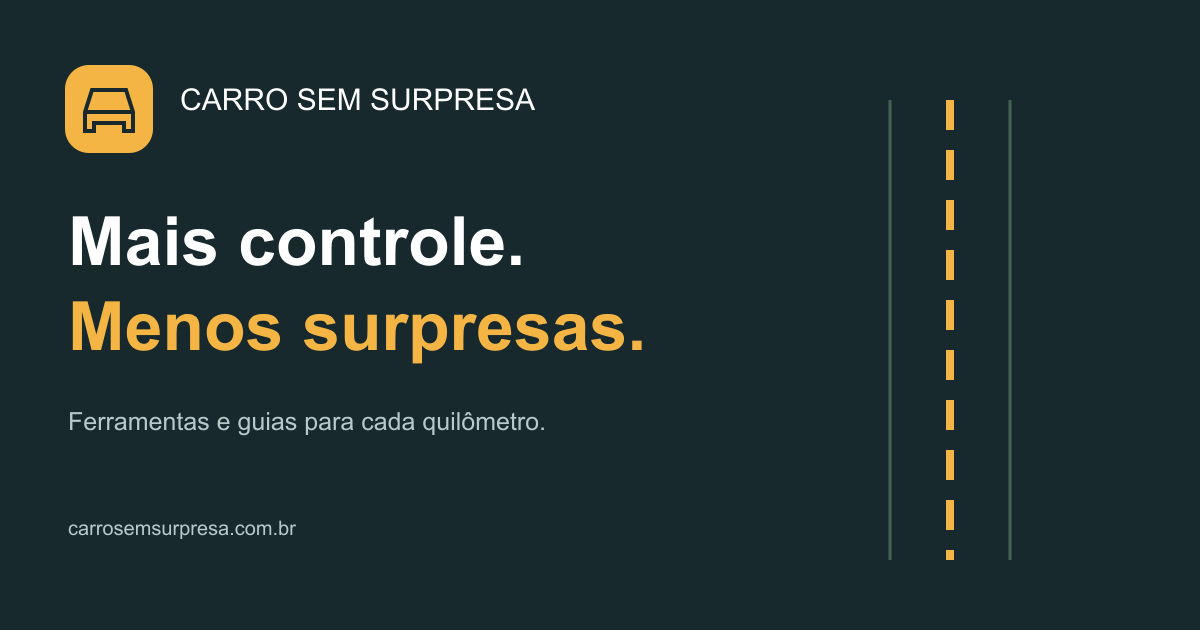
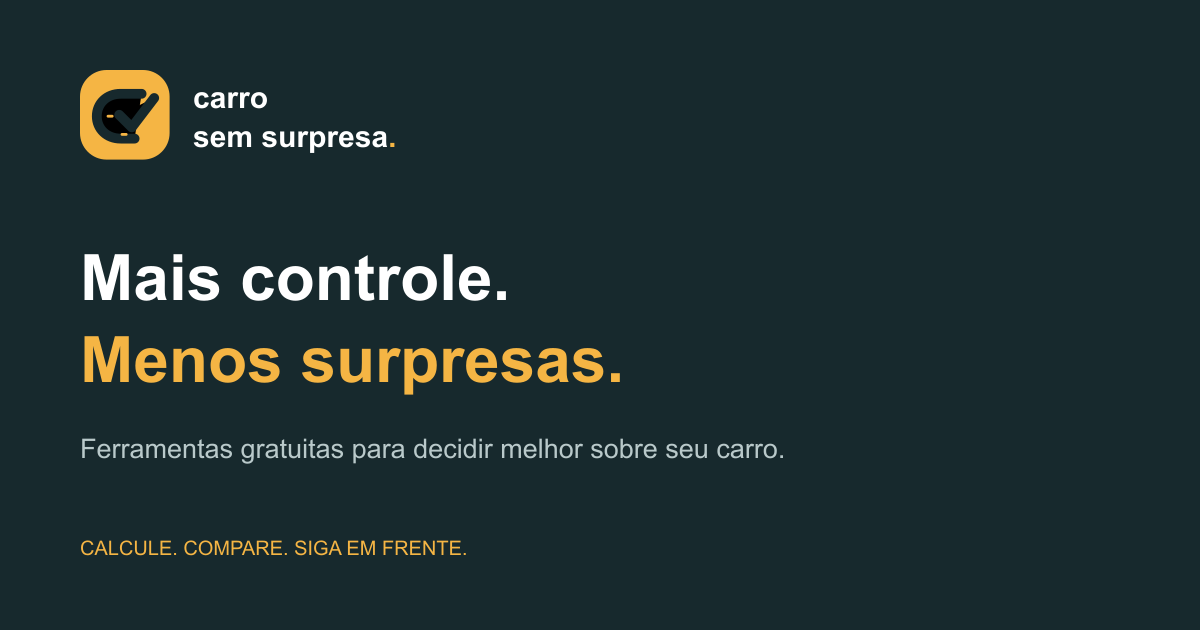
feat: moderniza marca e melhora descoberta de ferramentas

diff --git a/app/globals.css b/app/globals.css
@@ -3,14 +3,8 @@
 :root {
   --background: #fbfaf7;
   --foreground: #17292d;
-  /* Paleta da marca: grafite + laranja (Etapa 7).
-     --color-graphite coincide com o slate-900 padrão do Tailwind, mas
-     o orange-500 padrão do Tailwind v4 NÃO é mais #f97316 (mudou para
-     um tom via OKLCH ao migrar de v3 pra v4) — por isso a cor exata da
-     marca é fixada aqui como token próprio, não reaproveitando a
-     paleta padrão. --color-brand-orange-dark é usado onde o laranja
-     puro não tem contraste suficiente (WCAG AA) para texto/ícone sobre
-     fundo branco ou como fundo sob texto branco. */
+  /* Grafite, âmbar e papel. O token orange é mantido por compatibilidade;
+     sua variante escura oferece contraste para texto sobre fundo claro. */
   --color-graphite: #17292d;
   --color-brand-orange: #f5b544;
   --color-brand-orange-dark: #97520b;
@@ -89,13 +83,38 @@ input {
   outline: none;
 }
 .brand-name {
-  font-size: 20px;
-  line-height: 1.06;
+  font-size: 21px;
+  font-weight: 800;
+  line-height: 1.12;
   letter-spacing: -0.6px;
 }
 .brand-name > span {
   display: block;
 }
+.brand-lockup { display: inline-flex; align-items: center; gap: 12px; }
+.brand-lockup > img { flex-shrink: 0; }
+.brand-period { color: #f5b544; }
+.tool-search-section { display: grid; grid-template-columns: 1fr 1fr; gap: 32px; align-items: center; padding-top: 48px; }
+.tool-search-section h2 { font-size: 23px; font-weight: 700; letter-spacing: -0.04em; margin-top: 8px; }
+.home-search { display: flex; align-items: center; gap: 12px; padding: 8px 8px 8px 18px; background: white; border: 1px solid #c8d1cb; border-radius: 12px; }
+.home-search:focus-within { outline: 3px solid #b36812; outline-offset: 3px; }
+.home-search input { width: 100%; min-width: 0; min-height: 44px; font-size: 14px; outline: none; }
+.home-search button { display: grid; place-items: center; flex-shrink: 0; width: 44px; height: 44px; border-radius: 8px; background: #17292d; color: #f5b544; cursor: pointer; }
+.home-search button:hover { background: #2c494e; }
+.estimate-result { background: #f8efdd; border: 1px solid #ebd6ac; }
+.cost-breakdown { margin-top: 18px; }
+.cost-bar { display: flex; height: 7px; gap: 3px; border-radius: 10px; overflow: hidden; background: #edf0ed; }
+.cost-bar span { flex-basis: 0; }
+.cost-color-0 { background: #17292d; }
+.cost-color-1 { background: #b07b28; }
+.cost-color-2 { background: #638478; }
+.cost-color-3 { background: #f5b544; }
+.cost-color-4 { background: #7d91a4; }
+.cost-breakdown dl { display: grid; gap: 6px; margin-top: 12px; font-size: 12px; }
+.cost-breakdown dl > div { display: flex; justify-content: space-between; gap: 12px; }
+.cost-breakdown dt { display: flex; align-items: center; gap: 7px; color: #536160; }
+.cost-breakdown dt i { width: 7px; height: 7px; border-radius: 2px; }
+.cost-breakdown dd { font-variant-numeric: tabular-nums; font-weight: 600; }
 .motor-container {
   width: 100%;
   max-width: 1200px;
@@ -103,7 +122,7 @@ input {
   margin-inline: auto;
 }
 .motor-hero {
-  background: #17292d;
+  background: radial-gradient(ellipse at 90% 15%, #28484b 0, transparent 55%), #17292d;
   color: white;
   overflow: hidden;
   position: relative;
@@ -113,14 +132,14 @@ input {
   grid-template-columns: 1.2fr 1fr;
   gap: 76px;
   align-items: center;
-  padding-block: 65px 72px;
+  padding-block: 54px 64px;
 }
 .section-kicker {
   display: inline-flex;
   align-items: center;
   gap: 9px;
   color: #97520b;
-  font-size: 10px;
+  font-size: 11px;
   letter-spacing: 0.13em;
   font-weight: 700;
 }
@@ -189,7 +208,7 @@ input {
   display: flex;
   flex-wrap: wrap;
   gap: 16px;
-  font-size: 10px;
+  font-size: 12px;
   color: #b9c9ca;
   margin-top: 30px;
 }
@@ -305,7 +324,9 @@ input {
   background: white;
   border-radius: 14px;
   padding: 26px;
+  transition: border-color 0.2s, box-shadow 0.2s;
 }
+.journey-card:hover, .journey-card:focus-within { border-color: #b07b28; box-shadow: 0 10px 30px #17292d0a; }
 .journey-top {
   display: flex;
   justify-content: space-between;
@@ -313,7 +334,7 @@ input {
   color: #97520b;
 }
 .journey-top span {
-  font-size: 8px;
+  font-size: 10px;
   letter-spacing: 0.09em;
   font-weight: 700;
 }
@@ -329,7 +350,7 @@ input {
   align-items: center;
 }
 .journey-card > p {
-  font-size: 12px;
+  font-size: 14px;
   line-height: 1.8;
   color: #63706f;
   margin-top: 12px;
@@ -342,7 +363,9 @@ input {
   gap: 12px;
 }
 .journey-links a {
-  font-size: 11px;
+  font-size: 13px;
+  min-height: 36px;
+  align-items: center;
   display: flex;
   justify-content: space-between;
   gap: 12px;
@@ -441,7 +464,7 @@ input {
   line-height: 1.5;
 }
 .reading-body p {
-  font-size: 12px;
+  font-size: 14px;
   line-height: 1.7;
   color: #63706f;
   margin-block: 12px 24px;
@@ -533,6 +556,11 @@ input {
   }
 }
 @media (max-width: 700px) {
+  .tool-search-section { grid-template-columns: 1fr; gap: 18px; padding-top: 32px; }
+  .brand-name { font-size: 18px; }
+  .brand-lockup { gap: 9px; }
+  .brand-lockup > img { width: 42px; height: 42px; }
+  .quick-lane a { min-height: 44px; }
   .hero-grid {
     grid-template-columns: 1fr;
     padding-block: 38px 42px;

diff --git a/app/page.tsx b/app/page.tsx
@@ -9,6 +9,7 @@ import {
   Wrench,
   BookOpen,
   Check,
+  Search,
 } from "lucide-react";
 import { HeroCalculator } from "@/components/home/HeroCalculator";
 import { TOOLS } from "@/lib/tools";
@@ -69,17 +70,17 @@ export default function Home() {
               <span className="signal-dot" /> MAIS CONTROLE. MENOS SURPRESAS.
             </span>
             <h1>
-              A liberdade de dirigir.
+              Seu próximo carro.
               <br />
               <em>
-                A tranquilidade
+                Sua próxima viagem.
                 <br />
-                de saber o custo.
+                Nenhuma surpresa.
               </em>
             </h1>
             <p>
-              Da primeira pesquisa à próxima revisão: ferramentas e guias para
-              tomar boas decisões com o seu carro.
+              Entenda quanto custa comprar, manter e usar um carro.
+              Faça as contas hoje. Dirija com mais tranquilidade amanhã.
             </p>
             <div className="hero-buttons">
               <Link
@@ -137,6 +138,18 @@ export default function Home() {
           </Link>
         </div>
       </div>
+      <section className="motor-container tool-search-section" aria-label="Buscar ferramentas">
+        <div>
+          <span className="section-kicker">VAMOS RESOLVER?</span>
+          <h2>O que você precisa descobrir?</h2>
+        </div>
+        <form action="/ferramentas" className="home-search" role="search">
+          <Search size={20} aria-hidden="true" />
+          <label htmlFor="home-tool-search" className="sr-only">Buscar ferramenta</label>
+          <input id="home-tool-search" name="q" type="search" placeholder="Ex.: combustível, FIPE, viagem…" maxLength={120} />
+          <button type="submit" aria-label="Buscar ferramentas"><ArrowUpRight size={21} /></button>
+        </form>
+      </section>
       <section className="motor-container home-section">
         <div className="section-heading">
           <div>

diff --git a/components/home/HeroCalculator.tsx b/components/home/HeroCalculator.tsx
@@ -73,7 +73,7 @@ export function HeroCalculator() {
         />
       </div>
 
-      <div className="mt-5 rounded-xl bg-neutral-50 p-4">
+      <div className="estimate-result mt-5 rounded-xl p-4" aria-live="polite" aria-atomic="true">
         <p className="text-xs text-neutral-500">Custo mensal estimado</p>
         <p className="mt-0.5 text-3xl font-bold tracking-tight text-neutral-900">
           {formatBRL(result.totalMonthly)}
@@ -83,6 +83,21 @@ export function HeroCalculator() {
         </p>
       </div>
 
+      <div className="cost-breakdown" aria-label="Composição do custo mensal">
+        <div className="cost-bar" aria-hidden="true">
+          {result.breakdown.map((item, index) => (
+            <span key={item.label} className={`cost-color-${index}`} style={{ flexGrow: result.totalMonthly > 0 ? item.monthlyValue / result.totalMonthly : 0 }} />
+          ))}
+        </div>
+        <dl>
+          {result.breakdown.map((item, index) => (
+            <div key={item.label}>
+              <dt><i className={`cost-color-${index}`} aria-hidden="true" />{item.label}</dt>
+              <dd>{formatBRL(item.monthlyValue)}</dd>
+            </div>
+          ))}
+        </dl>
+      </div>
       <p className="mt-3 text-xs leading-relaxed text-neutral-600">
         Exemplo com consumo de 12 km/L, IPVA médio da tabela e premissas padrão.
         Ajuste as hipóteses no cálculo completo.

diff --git a/app/ferramentas/page.tsx b/app/ferramentas/page.tsx
@@ -1,4 +1,6 @@
 import type { Metadata } from "next";
+import { Suspense } from "react";
+import { ToolDirectory } from "@/components/ToolDirectory";
 import { Directory } from "@/components/Directory";
 import { TOOLS, TOOL_CATEGORY_LABELS } from "@/lib/tools";
 const pageMetadata: Metadata = {
@@ -25,6 +27,12 @@ export const metadata: Metadata = {
 };
 
 export default function Page() {
+  const items = TOOLS.map((t) => ({
+    href: t.href,
+    title: t.title,
+    description: t.description,
+    category: TOOL_CATEGORY_LABELS[t.category],
+  }));
   return (
     <main className="motor-container py-12">
       <span className="section-kicker">MENOS DÚVIDAS. MAIS RESPOSTAS.</span>
@@ -34,14 +42,9 @@ export default function Page() {
         cuidar do carro. As calculadoras rodam no navegador; consultas podem
         usar serviços externos.
       </p>
-      <Directory
-        items={TOOLS.map((t) => ({
-          href: t.href,
-          title: t.title,
-          description: t.description,
-          category: TOOL_CATEGORY_LABELS[t.category],
-        }))}
-      />
+      <Suspense fallback={<Directory items={items} />}>
+        <ToolDirectory items={items} />
+      </Suspense>
     </main>
   );
 }

diff --git a/components/layout/Footer.tsx b/components/layout/Footer.tsx
@@ -1,4 +1,4 @@
-import Image from "next/image";
+import { Brand } from "./Brand";
 import Link from "next/link";
 import { AdSlot } from "@/components/ads/AdSlot";
 
@@ -18,14 +18,8 @@ export function Footer() {
         <AdSlot position="footer" />
 
         <div className="mt-8 flex flex-col gap-6 sm:flex-row sm:items-center sm:justify-between">
-          <div className="flex items-start gap-3">
-            <Image
-              src="/logo-icon.png"
-              alt=""
-              width={562}
-              height={241}
-              className="h-6 w-auto shrink-0 opacity-90"
-            />
+          <div className="flex flex-col items-start gap-5">
+            <Link href="/" prefetch={false}><Brand /></Link>
             <p className="max-w-md text-sm text-white/60">
               © {year} Carro Sem Surpresa. Conteúdo informativo, não substitui
               aconselhamento financeiro, contábil ou jurídico.

diff --git a/components/layout/Header.tsx b/components/layout/Header.tsx
@@ -1,4 +1,4 @@
-import Image from "next/image";
+import { Brand } from "./Brand";
 import Link from "next/link";
 import { ToolsDropdown } from "./ToolsDropdown";
 import { MobileNav } from "./MobileNav";
@@ -12,17 +12,7 @@ export function Header() {
           prefetch={false}
           className="flex items-center gap-2 text-lg font-bold tracking-tight"
         >
-          <Image
-            src="/brand-mark.svg"
-            alt=""
-            width={48}
-            height={48}
-            priority
-            className="h-10 w-10"
-          />
-          <span>
-            Carro <span className="text-brand-orange">Sem Surpresa</span>
-          </span>
+          <Brand />
         </Link>
 
         {/* prefetch={false} nos links: o header aparece em toda página,

diff --git a/components/Directory.tsx b/components/Directory.tsx
@@ -14,8 +14,8 @@ function normalize(value: string) {
     .replace(/[\u0300-\u036f]/g, "")
     .toLowerCase();
 }
-export function Directory({ items }: { items: DirectoryItem[] }) {
-  const [query, setQuery] = useState("");
+export function Directory({ items, initialQuery = "" }: { items: DirectoryItem[]; initialQuery?: string }) {
+  const [query, setQuery] = useState(initialQuery);
   const [category, setCategory] = useState("Todos");
   const categories = ["Todos", ...new Set(items.map((i) => i.category))];
   const filtered = items.filter(

diff --git a/components/ToolDirectory.tsx b/components/ToolDirectory.tsx
@@ -1,0 +1,10 @@
+"use client";
+
+import { useSearchParams } from "next/navigation";
+import { Directory, type DirectoryItem } from "./Directory";
+
+export function ToolDirectory({ items }: { items: DirectoryItem[] }) {
+  const params = useSearchParams();
+  const query = (params.get("q") ?? "").slice(0, 120);
+  return <Directory key={query} items={items} initialQuery={query} />;
+}

diff --git a/components/layout/Brand.tsx b/components/layout/Brand.tsx
@@ -1,0 +1,10 @@
+import Image from "next/image";
+
+export function Brand() {
+  return (
+    <span className="brand-lockup">
+      <Image src="/brand-mark.svg" alt="" width={48} height={48} priority />
+      <span className="brand-name">carro<span>sem surpresa<span className="brand-period">.</span></span></span>
+    </span>
+  );
+}
